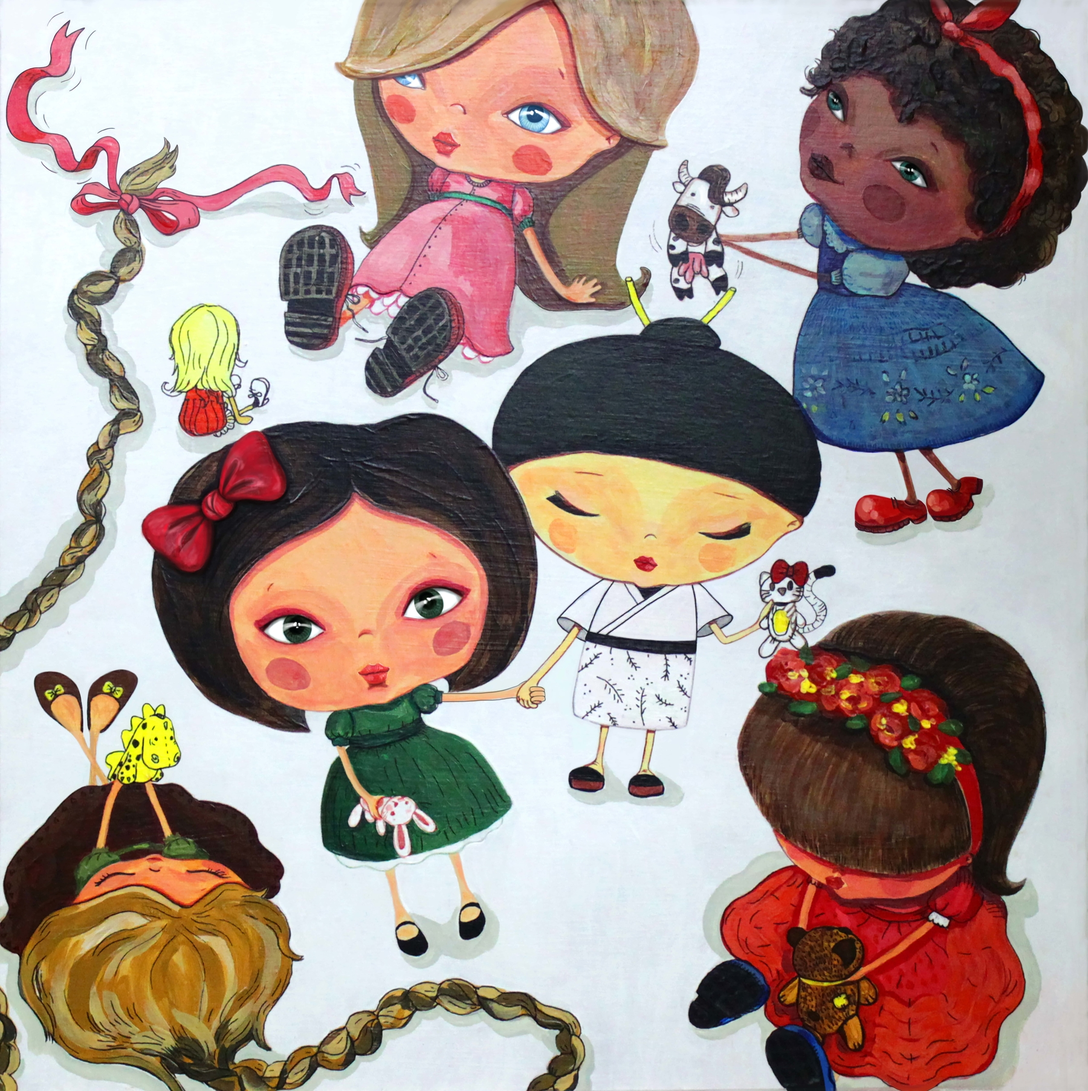
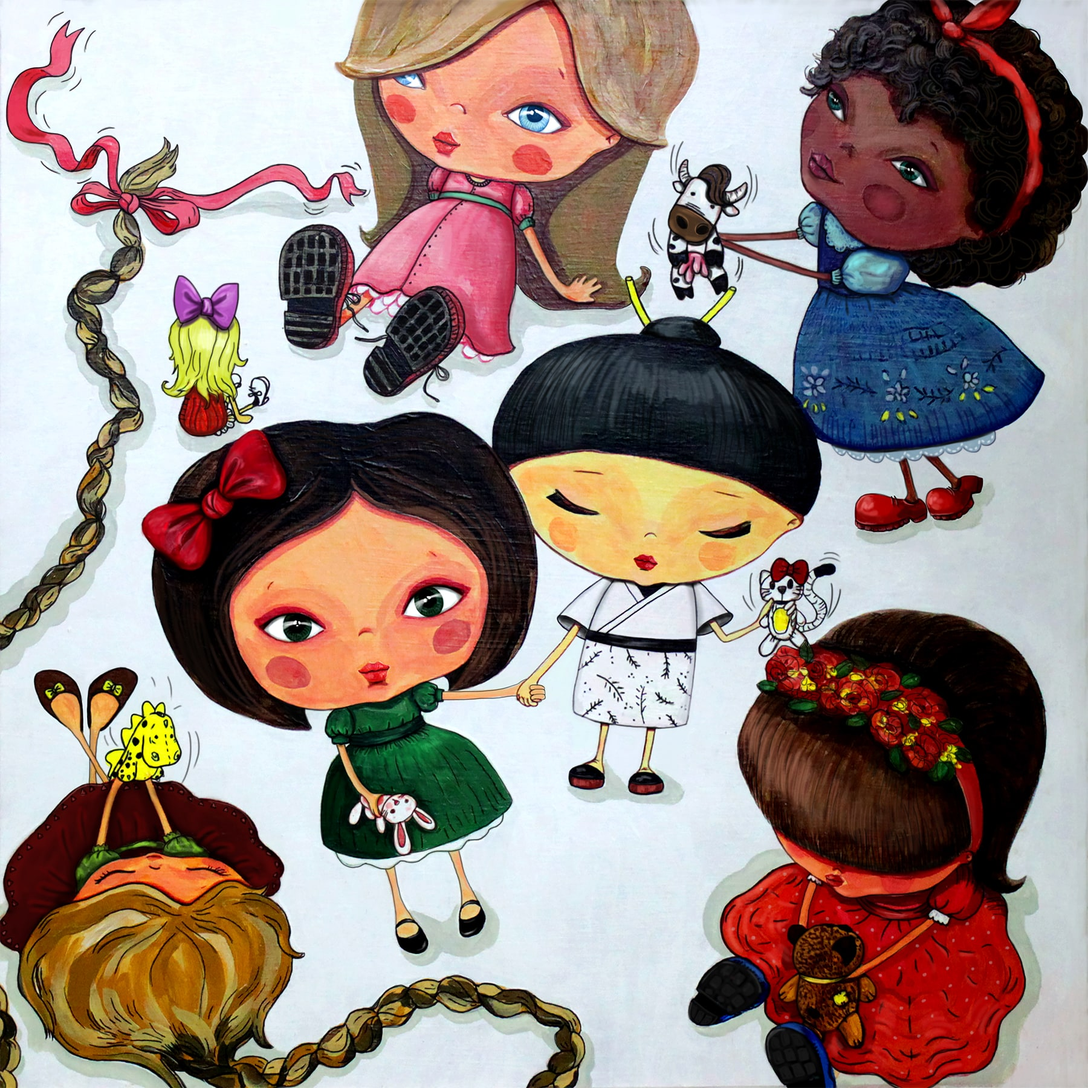
dodat ng-include, pozadina obradjena

diff --git a/index.html b/index.html
@@ -24,143 +24,12 @@
 			<span ng-click="panel.selectTab(4)" ng-class="{active: panel.isSelected(4)}">Contact</span>
 		</div>
 		
-		<div id='#container'>	
-			<div id='ms' ng-show="panel.isSelected(1)">
-				<span>Margot Savin
-					<div id='ms-bor'></div>
-				</span>
-			</div>
-			
-<!-------------- ABOUT -------------------------------->
+		<div id='#container'">
+			<div ng-if="panel.isSelected(1)" ng-include="home"></div>
+			<div ng-if="panel.isSelected(2)" ng-include="about"></div>
+			<div ng-if="panel.isSelected(3)" ng-include="portfolio"></div>
+			<div ng-if="panel.isSelected(4)" ng-include="contact"></div>	
 
-			<div id='about' ng-show='panel.isSelected(2)'>
-				
-				
-				<img src='./img/about/mega.jpg'> 
-				<div class='info'>             
-							<span class='ime'>Margot Savin</span><br/>
-							<span class='job'>Painter / Graphic designer</span>
-				</div><br/>
-				
-				<div id='text'>
-					
-					<span class='bold'>Biography:</span>
-
-					<p>
-						I was born on 08.08.1989. in Novi Sad. I grew up in Futog where paralel with the regular education i had a chance to attend painting school and arcestra for gifted children. After finishing the elementary school i was admitted to the high school for design and fine arts. After sucessfully completing the high school i was admitted to the Academy of Fine Arts in Novi Sad. I graduated with a degree in painting under the mentorship of Dusan Todorovic. 
-					</p>
-
-					<span class='bold'>Education - Qualification</span>
-
-					<p>
-						Group exebition of paintings / Kulturni Centar Futog, 2015 <br/>
-						Group exebition of children illustration 48, Golden Pen and 14 <br/>
-						Biennial of children illustration / Belgrade, NBS, 2015 <br/>
-						Group exebition of paintings / Kulturni Centar Futog, 2014 <br/>
-						Group exebition of illustration / Book fair, Novi Sad, 2014 <br/>
-						Project Cooperation Dance Theater Performance by<br/> Theater Pozitiv The Third / Ljubljana - Novi Sad, 2014 <br/>
-						Group exebition of paintings / Ljubljana, 2014 <br/>
-						Took part in project establishing association PUSHWAGNERART<br/> / cooperation with the Norwegian artist Terje Brofos known to the <br/> world art scene as Harlton Pushwagner / 2013-2014 <br/>
-						Took part in project EU to be a citizen in Ljubljana <br/>/ graffiti and stencil art, 2013 <br/> 
-						Group exebition of paintings in Culture and Art society Vitizop<br/>
-						Ljubljana / Slovenija, 2013 <br/>
-						Independent exebition of drawings Culture and Art society Vitizop <br/>
-						in Ljubljana / Slovenia, 2013 <br/>
-						Group exebition of paintings gallery Pavla Beljanskog <br/>
-						/ Novi Sad, 2013 <br/>
-						Group exebition instalations Museum of Contemporary Art <br/> / Novi Sad, 2012 <br/>
-						World Biennial of students photography / Novi Sad, 2012 <br/>
-						World Biennial of student photography / Novi Sad, 2011<br/>
-						Group exebition of photography / Novi Sad, 2011 <br/>
-						Art colony and group exebition / Uzice, 2010 <br/>
-						Academy of Fine Arts in Novi Sad / major painting / class of 2009 <br/>
-						Group exebition of paintings / Deronje, 2008 <br/>
-						Art colony / Deronje, 2008 <br/>
-						Group exebition graphic desing Army museum / Novi Sad, 2007 <br/>
-						Art show Centar Apolo - group exebition / Novi Sad, 2006 <br/>
-						Art colony in Futog for charity / 2006 <br/>
-						European Union Youthpass certificate / Youth Exchange<br/>
-						High school for design and fine arts Bogdan Suput in Novi Sad <br/>
-						/ graphic design department / 2004
-					</p>
-
-					<span class='bold'>Experience</span>
-
-					<p>
-						Courently living at Novi Sad and working at Eipix as character painter, <br/>
-						1997/2015... making and decorating cakes and cookies in <br/>
-						workshop Drenacakes in Futog / decorating cakes and making <br/>
-						figurines. <br/>
-						2014/2015. Opens an alternative space - Kreativni Kutak- <br/>
-						school of arts for children / in Novi Sad. <br/>
-						2014. Work graphic design for club MOVED / Novi Sad, I year <br/>
-						2013/2014. Work for Norwegian artist Pushwagner - digital <br/>
-						processing of drawings and grapgic desing, I year <br/>
-						2013. Interior decorating gardens caffe Betula / Novi Sad <br/> 
-						2012. Interior fitting D cluba / Novi Sad.<br/>
-						2009. Volunteer work within organization MNRO / teaching <br/> 
-						children with special needs / Novo Naselje. I year
-
-
-					</p>
-
-				</div>
-				
-				
-			</div>
-
-<!----------------------- PORTFOLIO ------------------------>
-			<div ng-controller="PortfolioController as portfolio" class="container" id="portfolio" ng-show='panel.isSelected(3)'>
-				<div class="col-md-3 col-sm-6 col-xs-12" ng-repeat="projekat in portfolio.projekti">
-					<div class="view view-tenth">
-						<img ng-src="{{projekat.slike[0].jpg}}" >
-						<div class="mask">
-	                        <h2>{{projekat.nazivProjekta}}</h2>
-	                        <p>{{projekat.opisProjekta}}</p>
-	                        <a href="#" class="info">Galerija</a>
-	                    </div>
-                	</div>
-				</div>
-			</div>
-
-<!------------------------- CONTACT ---------------------------->
-
-
-			<div id='contact' ng-show='panel.isSelected(4)'>
-				<div class="center_div">
-				<form action="https://formspree.io/margotsavin@gmail.com" method="POST" >
-					<div class="form-group">
-						<span>Your Name </span><span style="color:red">*</span><br/>
-					    <input class="form-control" type="text" name="name"><br/>
-				    </div>
-				    <div class="form-group">
-					    <span>Email </span><span style="color:red">*</span><br/>
-					    <input class="form-control" type="email" name="_replyto"><br/>
-					</div>
-					<div class="form-group">
-					    <span>Message </span><span style="color:red">*</span><br/>
-					    <textarea class="form-control" name='message'></textarea><br/>
-				    </div>
-				    <input class="sub" type="submit" value="Send Message">
-				    <input type="hidden" name="_next" value="//site.io/thanks.html" />
-				</form>
-
-				<span class='megaInfo'>
-					<div>
-						Margot Savin
-					</div> 
-					<div>
-						<img src="./img/icon/email.png">margotsavin@gmail.com
-					</div>
-					<div>
-						<img src="./img/icon/phone.png">+3811486072
-					</div>
-					<div>
-						<a href="https://www.facebook.com/profile.php?id=1622901291" target="_blank"><img src='./img/icon/facebook.png'></a><img src='./img/icon/twitter.png'><img src='./img/icon/linkedin.png'>
-					</div>
-				</span>
-
-			</div>
 		</div>
 			<div id='footer'>
 				

diff --git a/about.html b/about.html
@@ -1,0 +1,75 @@
+<div id='about'>
+				
+				
+				<img src='./img/about/mega.jpg'> 
+				<div class='info'>             
+							<span class='ime'>Margot Savin</span><br/>
+							<span class='job'>Painter / Graphic designer</span>
+				</div><br/>
+				
+				<div id='text'>
+					
+					<span class='bold'>Biography:</span>
+
+					<p>
+						I was born on 08.08.1989. in Novi Sad. I grew up in Futog where paralel with the regular education i had a chance to attend painting school and arcestra for gifted children. After finishing the elementary school i was admitted to the high school for design and fine arts. After sucessfully completing the high school i was admitted to the Academy of Fine Arts in Novi Sad. I graduated with a degree in painting under the mentorship of Dusan Todorovic. 
+					</p>
+
+					<span class='bold'>Education - Qualification</span>
+
+					<p>
+						Group exebition of paintings / Kulturni Centar Futog, 2015 <br/>
+						Group exebition of children illustration 48, Golden Pen and 14 <br/>
+						Biennial of children illustration / Belgrade, NBS, 2015 <br/>
+						Group exebition of paintings / Kulturni Centar Futog, 2014 <br/>
+						Group exebition of illustration / Book fair, Novi Sad, 2014 <br/>
+						Project Cooperation Dance Theater Performance by<br/> Theater Pozitiv The Third / Ljubljana - Novi Sad, 2014 <br/>
+						Group exebition of paintings / Ljubljana, 2014 <br/>
+						Took part in project establishing association PUSHWAGNERART<br/> / cooperation with the Norwegian artist Terje Brofos known to the <br/> world art scene as Harlton Pushwagner / 2013-2014 <br/>
+						Took part in project EU to be a citizen in Ljubljana <br/>/ graffiti and stencil art, 2013 <br/> 
+						Group exebition of paintings in Culture and Art society Vitizop<br/>
+						Ljubljana / Slovenija, 2013 <br/>
+						Independent exebition of drawings Culture and Art society Vitizop <br/>
+						in Ljubljana / Slovenia, 2013 <br/>
+						Group exebition of paintings gallery Pavla Beljanskog <br/>
+						/ Novi Sad, 2013 <br/>
+						Group exebition instalations Museum of Contemporary Art <br/> / Novi Sad, 2012 <br/>
+						World Biennial of students photography / Novi Sad, 2012 <br/>
+						World Biennial of student photography / Novi Sad, 2011<br/>
+						Group exebition of photography / Novi Sad, 2011 <br/>
+						Art colony and group exebition / Uzice, 2010 <br/>
+						Academy of Fine Arts in Novi Sad / major painting / class of 2009 <br/>
+						Group exebition of paintings / Deronje, 2008 <br/>
+						Art colony / Deronje, 2008 <br/>
+						Group exebition graphic desing Army museum / Novi Sad, 2007 <br/>
+						Art show Centar Apolo - group exebition / Novi Sad, 2006 <br/>
+						Art colony in Futog for charity / 2006 <br/>
+						European Union Youthpass certificate / Youth Exchange<br/>
+						High school for design and fine arts Bogdan Suput in Novi Sad <br/>
+						/ graphic design department / 2004
+					</p>
+
+					<span class='bold'>Experience</span>
+
+					<p>
+						Courently living at Novi Sad and working at Eipix as character painter, <br/>
+						1997/2015... making and decorating cakes and cookies in <br/>
+						workshop Drenacakes in Futog / decorating cakes and making <br/>
+						figurines. <br/>
+						2014/2015. Opens an alternative space - Kreativni Kutak- <br/>
+						school of arts for children / in Novi Sad. <br/>
+						2014. Work graphic design for club MOVED / Novi Sad, I year <br/>
+						2013/2014. Work for Norwegian artist Pushwagner - digital <br/>
+						processing of drawings and grapgic desing, I year <br/>
+						2013. Interior decorating gardens caffe Betula / Novi Sad <br/> 
+						2012. Interior fitting D cluba / Novi Sad.<br/>
+						2009. Volunteer work within organization MNRO / teaching <br/> 
+						children with special needs / Novo Naselje. I year
+
+
+					</p>
+
+				</div>
+				
+				
+			</div>

diff --git a/contact.html b/contact.html
@@ -1,0 +1,35 @@
+<div id='contact' ng-show='panel.isSelected(4)'>
+				<div class="center_div">
+				<form action="https://formspree.io/margotsavin@gmail.com" method="POST" >
+					<div class="form-group">
+						<span>Your Name </span><span style="color:red">*</span><br/>
+					    <input class="form-control" type="text" name="name"><br/>
+				    </div>
+				    <div class="form-group">
+					    <span>Email </span><span style="color:red">*</span><br/>
+					    <input class="form-control" type="email" name="_replyto"><br/>
+					</div>
+					<div class="form-group">
+					    <span>Message </span><span style="color:red">*</span><br/>
+					    <textarea class="form-control" name='message'></textarea><br/>
+				    </div>
+				    <input class="sub" type="submit" value="Send Message">
+				    <input type="hidden" name="_next" value="//site.io/thanks.html" />
+				</form>
+
+				<span class='megaInfo'>
+					<div>
+						Margot Savin
+					</div> 
+					<div>
+						<img src="./img/icon/email.png">margotsavin@gmail.com
+					</div>
+					<div>
+						<img src="./img/icon/phone.png">+3811486072
+					</div>
+					<div>
+						<a href="https://www.facebook.com/profile.php?id=1622901291" target="_blank"><img src='./img/icon/facebook.png'></a><img src='./img/icon/twitter.png'><img src='./img/icon/linkedin.png'>
+					</div>
+				</span>
+
+</div> 

diff --git a/js/app.js b/js/app.js
@@ -2,7 +2,7 @@
 
 var app = angular.module('site', []);
 
-	app.controller("PanelController", function() {
+	app.controller("PanelController", function($scope) {
 		this.tab=1;
 
 		this.selectTab= function(setTab){ 
@@ -11,13 +11,35 @@ var app = angular.module('site', []);
 
 		this.isSelected= function(checkTab) {
 			return this.tab===checkTab;
-		}
-		
+		};
+
+		$scope.home = "home.html"
+		$scope.about = "about.html";
+		$scope.portfolio= "portfolio.html";
+		$scope.contact = "contact.html";
+
 	});
 
 	app.controller('PortfolioController', function() {
 		this.projekti= projekti;
 	});
+
+
+
+
+
+
+
+
+
+
+
+
+//////////////////////// PROJEKTI /////////////////////////////
+
+
+
+
 
 
 	var projekti = [

diff --git a/portfolio.html b/portfolio.html
@@ -1,0 +1,13 @@
+
+<div ng-controller="PortfolioController as portfolio" class="container" id="portfolio" ng-show='panel.isSelected(3)'>
+				<div class="col-md-3 col-sm-6 col-xs-12" ng-repeat="projekat in portfolio.projekti">
+					<div class="view view-tenth">
+						<img ng-src="{{projekat.slike[0].jpg}}" >
+						<div class="mask">
+	                        <h2>{{projekat.nazivProjekta}}</h2>
+	                        <p>{{projekat.opisProjekta}}</p>
+	                        <a href="#" class="info">Galerija</a>
+	                    </div>
+                	</div>
+				</div>
+			</div> 

diff --git a/home.html b/home.html
@@ -1,0 +1,5 @@
+<div id='ms' ng-show="panel.isSelected(1)">
+				<span>Margot Savin
+					<div id='ms-bor'></div>
+				</span>
+</div>

diff --git a/css/style.css b/css/style.css
@@ -99,6 +99,11 @@ body
 	cursor: pointer;
 }
 
+#container
+{
+	margin-top: 10%;
+}
+
 /*********MS******************/
 #ms
 {
